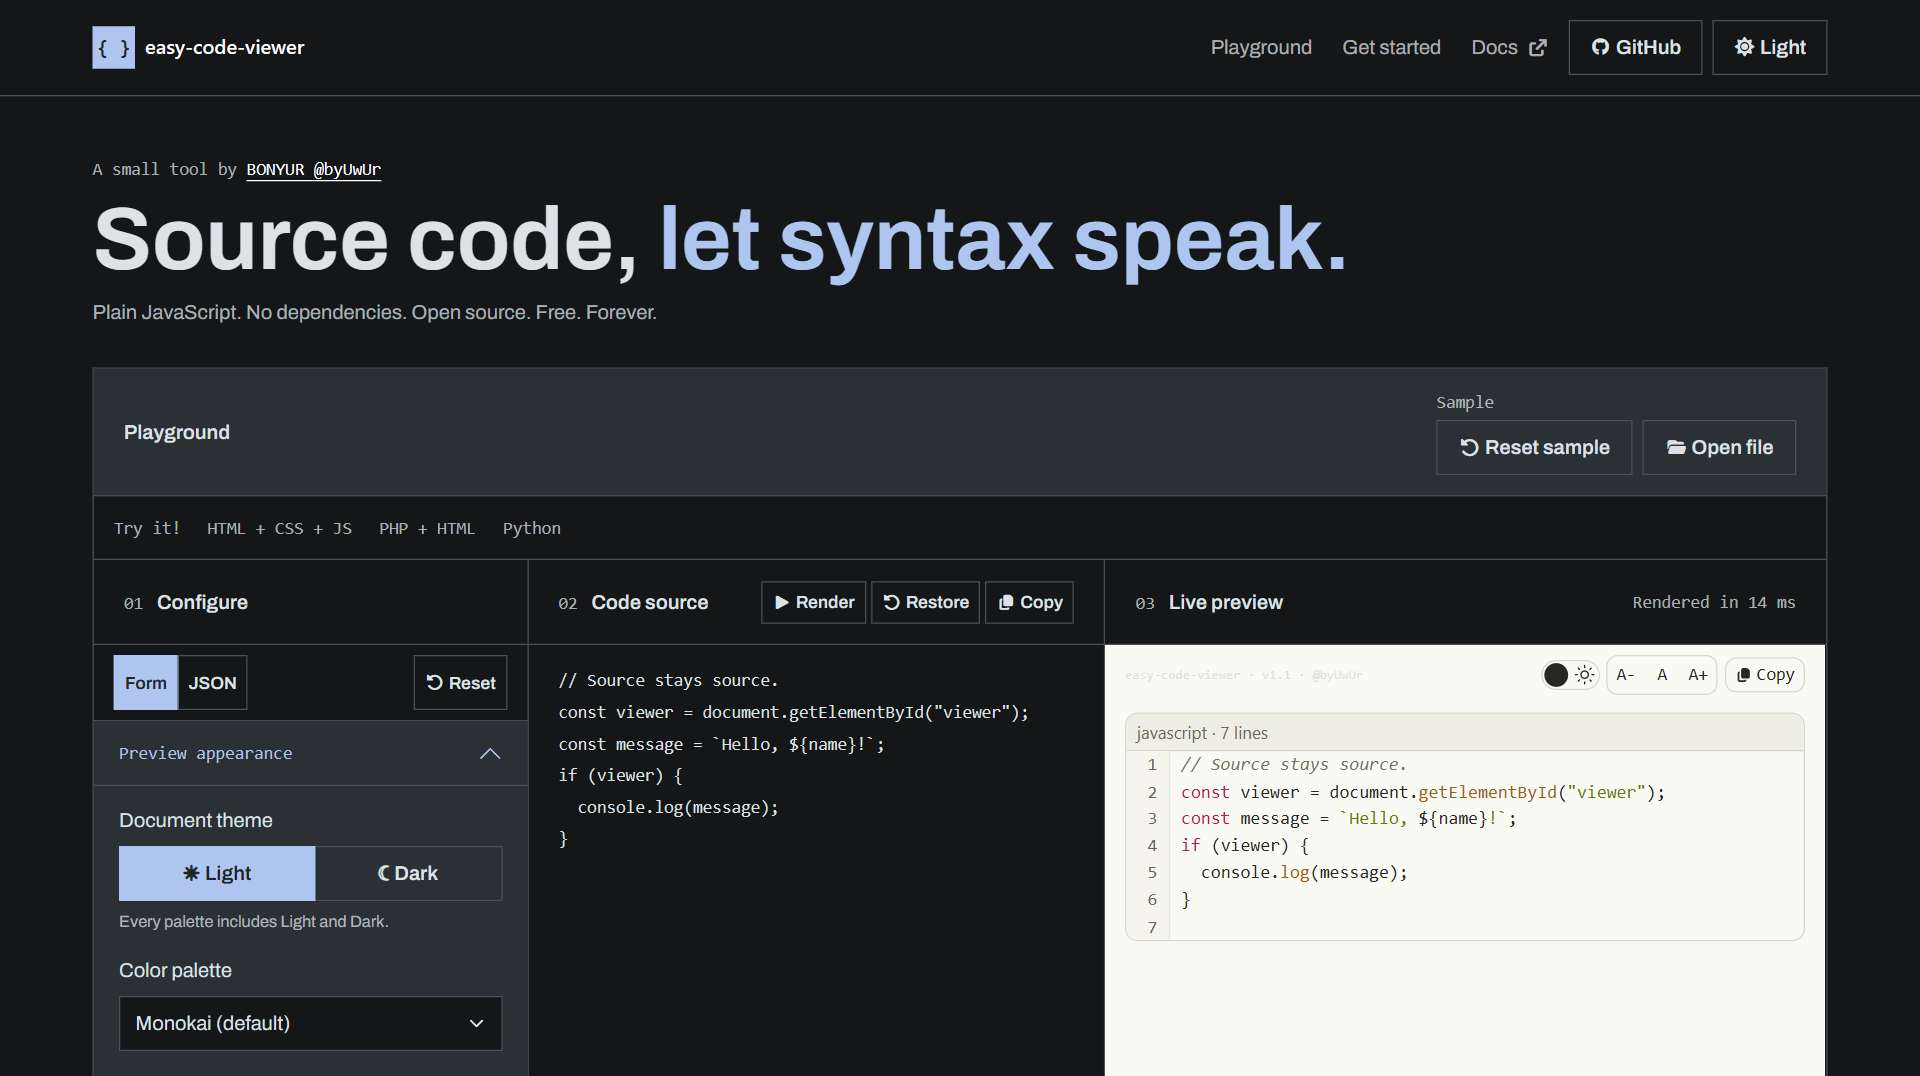
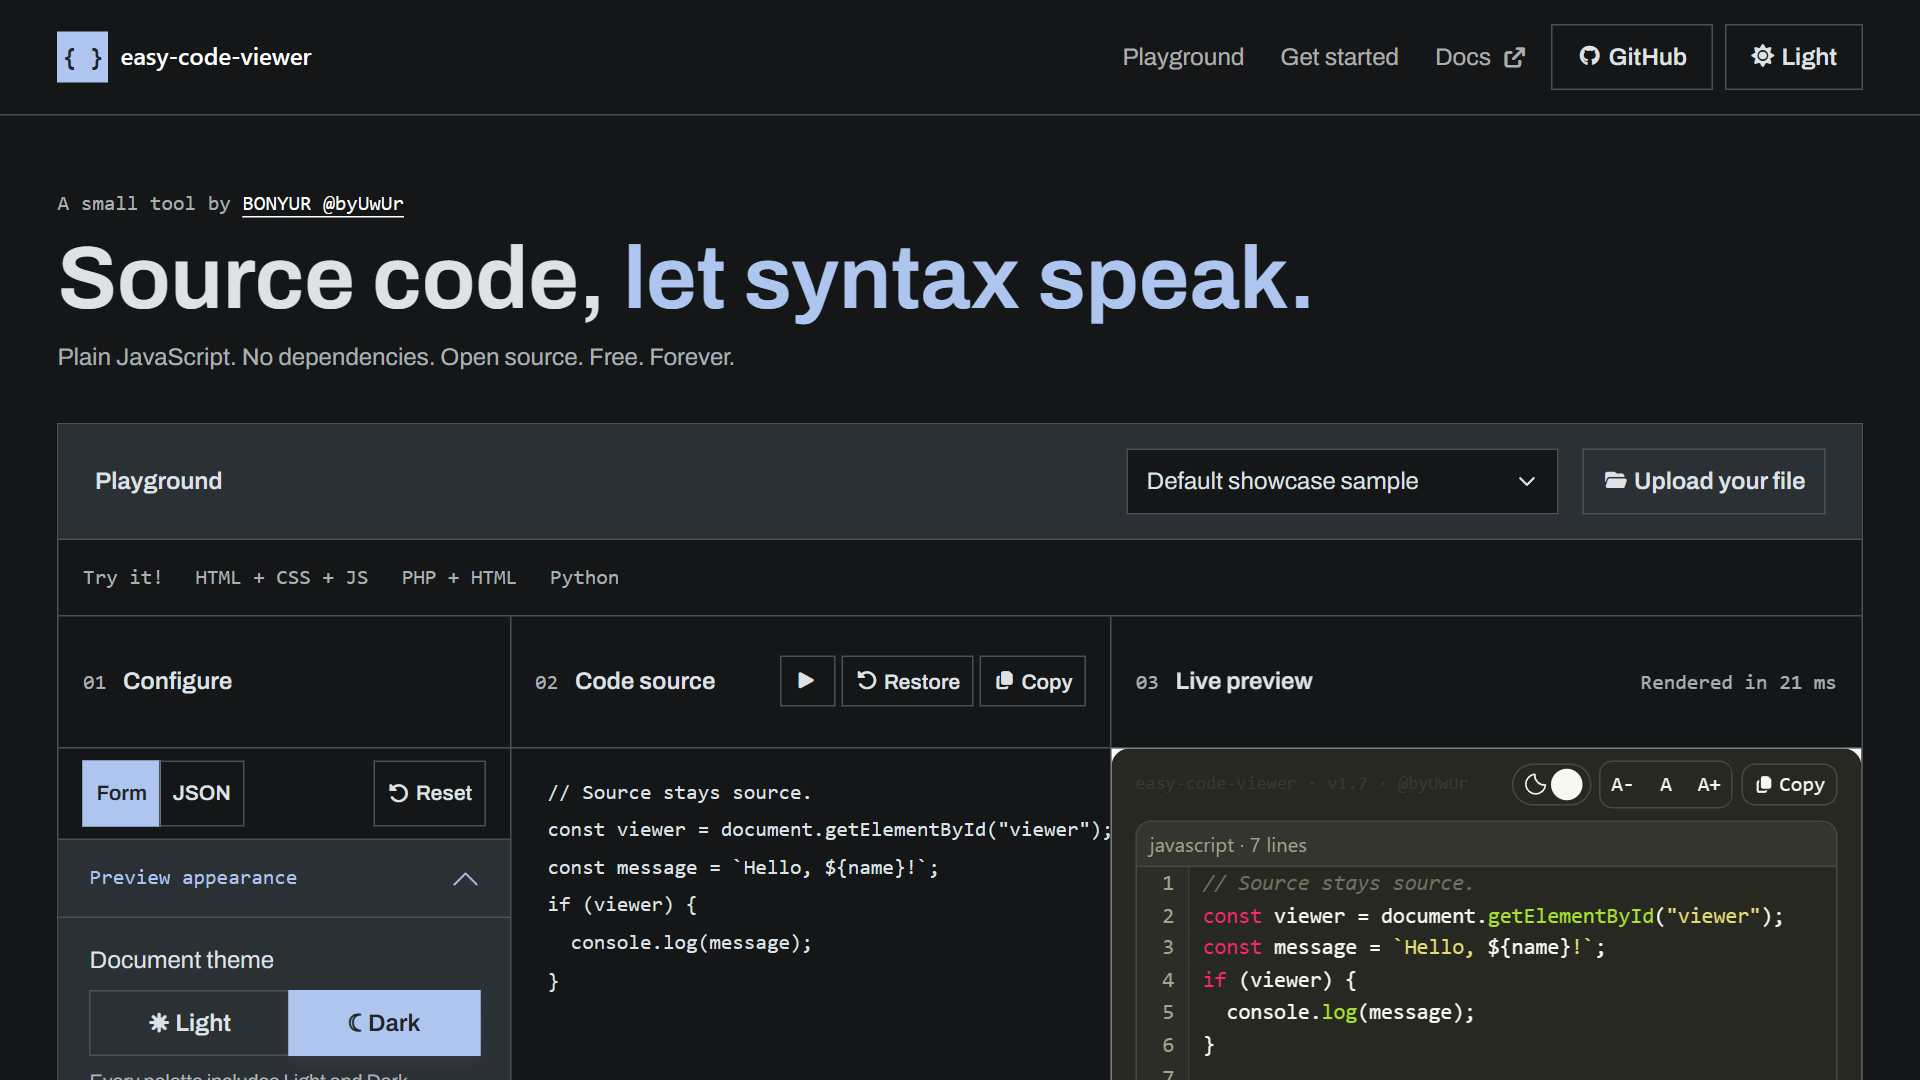
[Update] [Previews] Refresh the 1080p playground preview
Refresh the preview capture at 150% scaling, with exact 1920x1080 JPEG output capped at 100000 bytes. Align image-height metadata where present.

Validation: JPEG format, dimensions, and byte limits; affected-file diff checks.

diff --git a/index.html b/index.html
@@ -24,7 +24,7 @@
     <meta property="og:image" content="https://code.byuwur.co/prev.jpg" />
     <meta property="og:image:type" content="image/jpeg" />
     <meta property="og:image:width" content="1920" />
-    <meta property="og:image:height" content="1076" />
+    <meta property="og:image:height" content="1080" />
     <meta property="og:image:alt" content="easy-code-viewer by BONYUR: Source code playground, options, source editor, and live preview." />
     <meta name="twitter:card" content="summary_large_image" />
     <meta name="twitter:creator" content="@byUwUr" />
